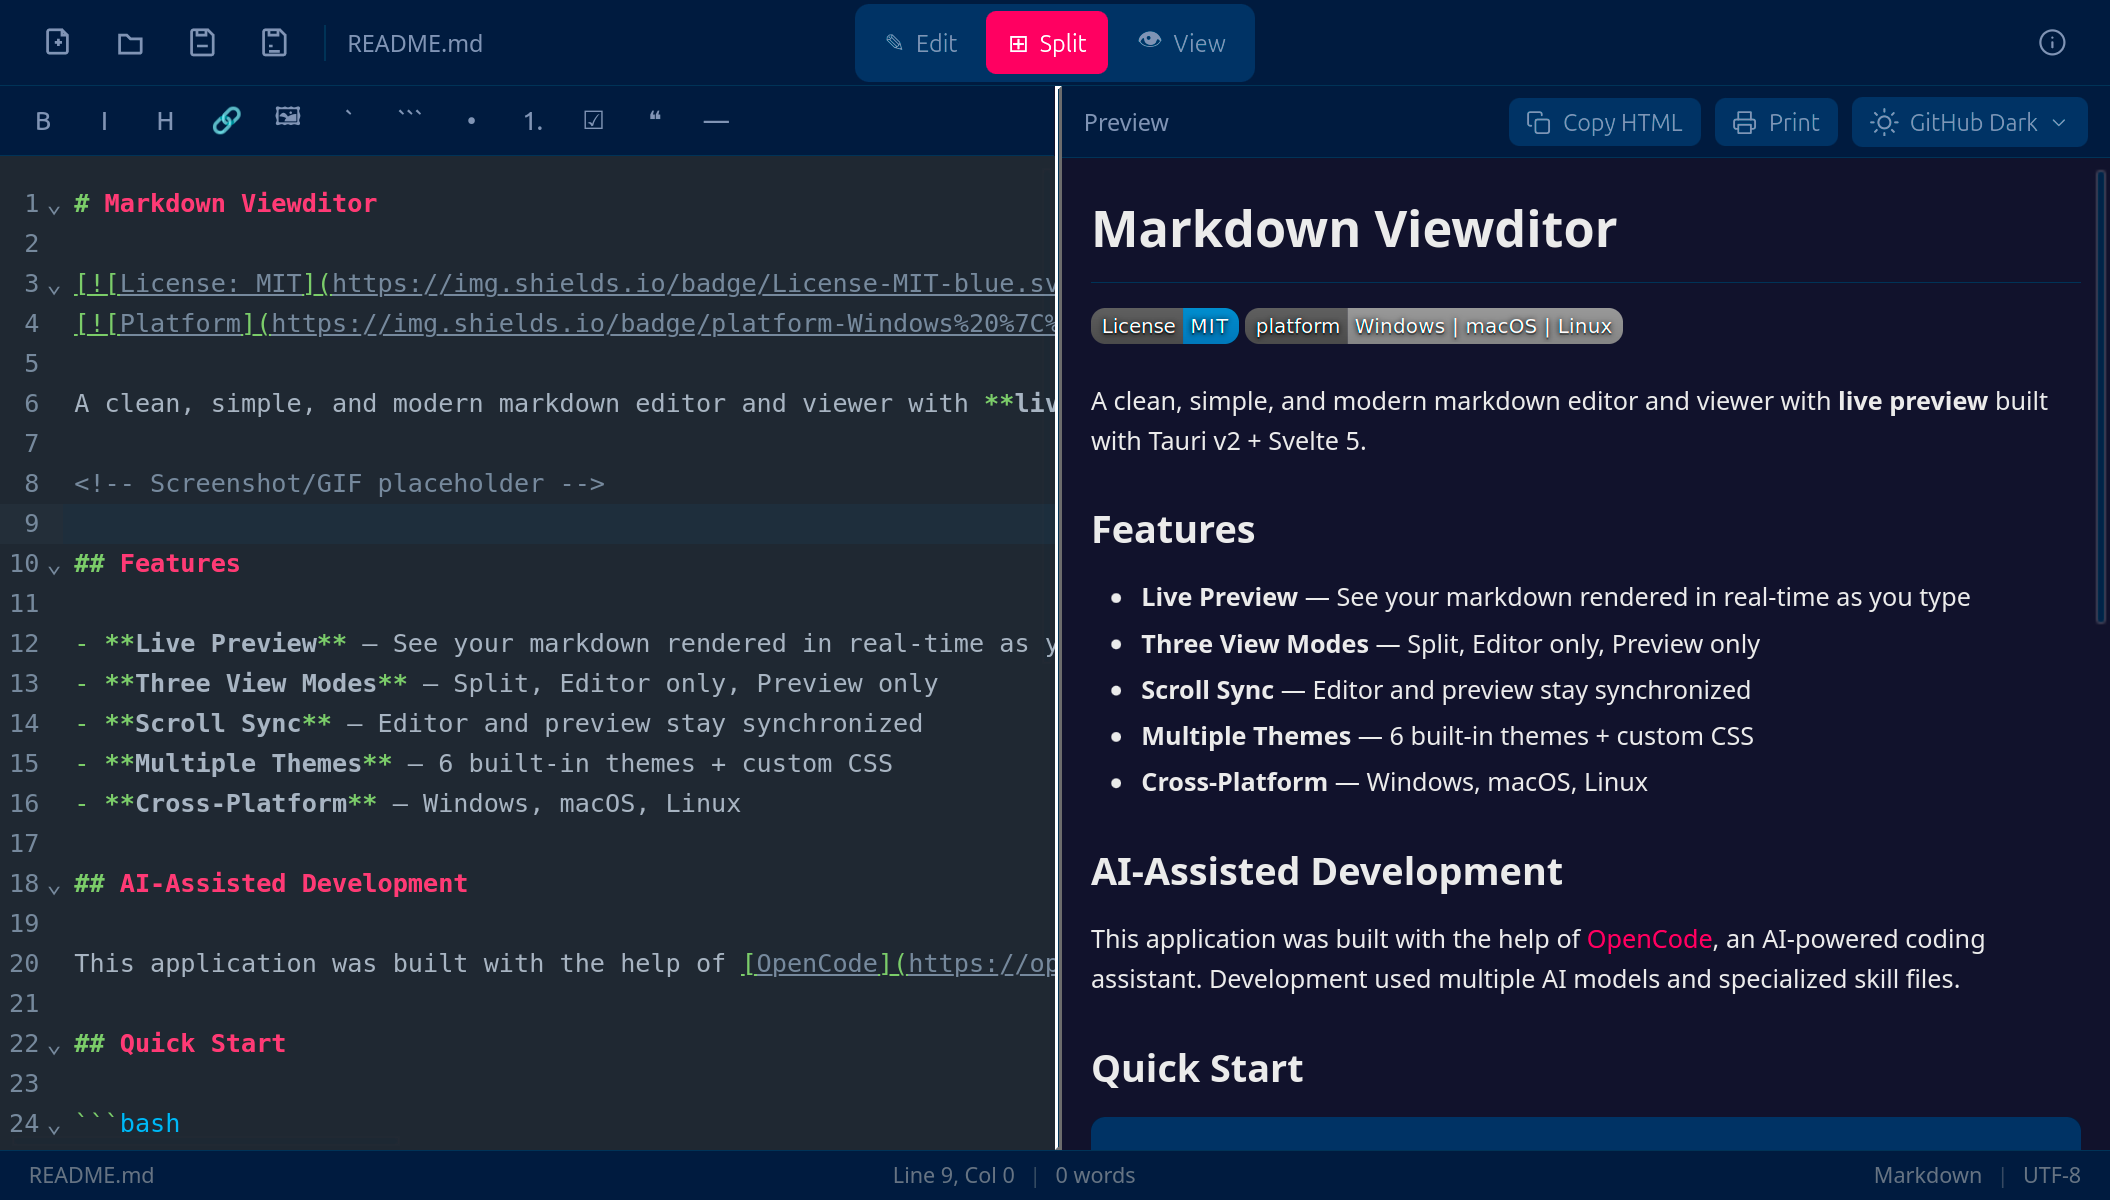
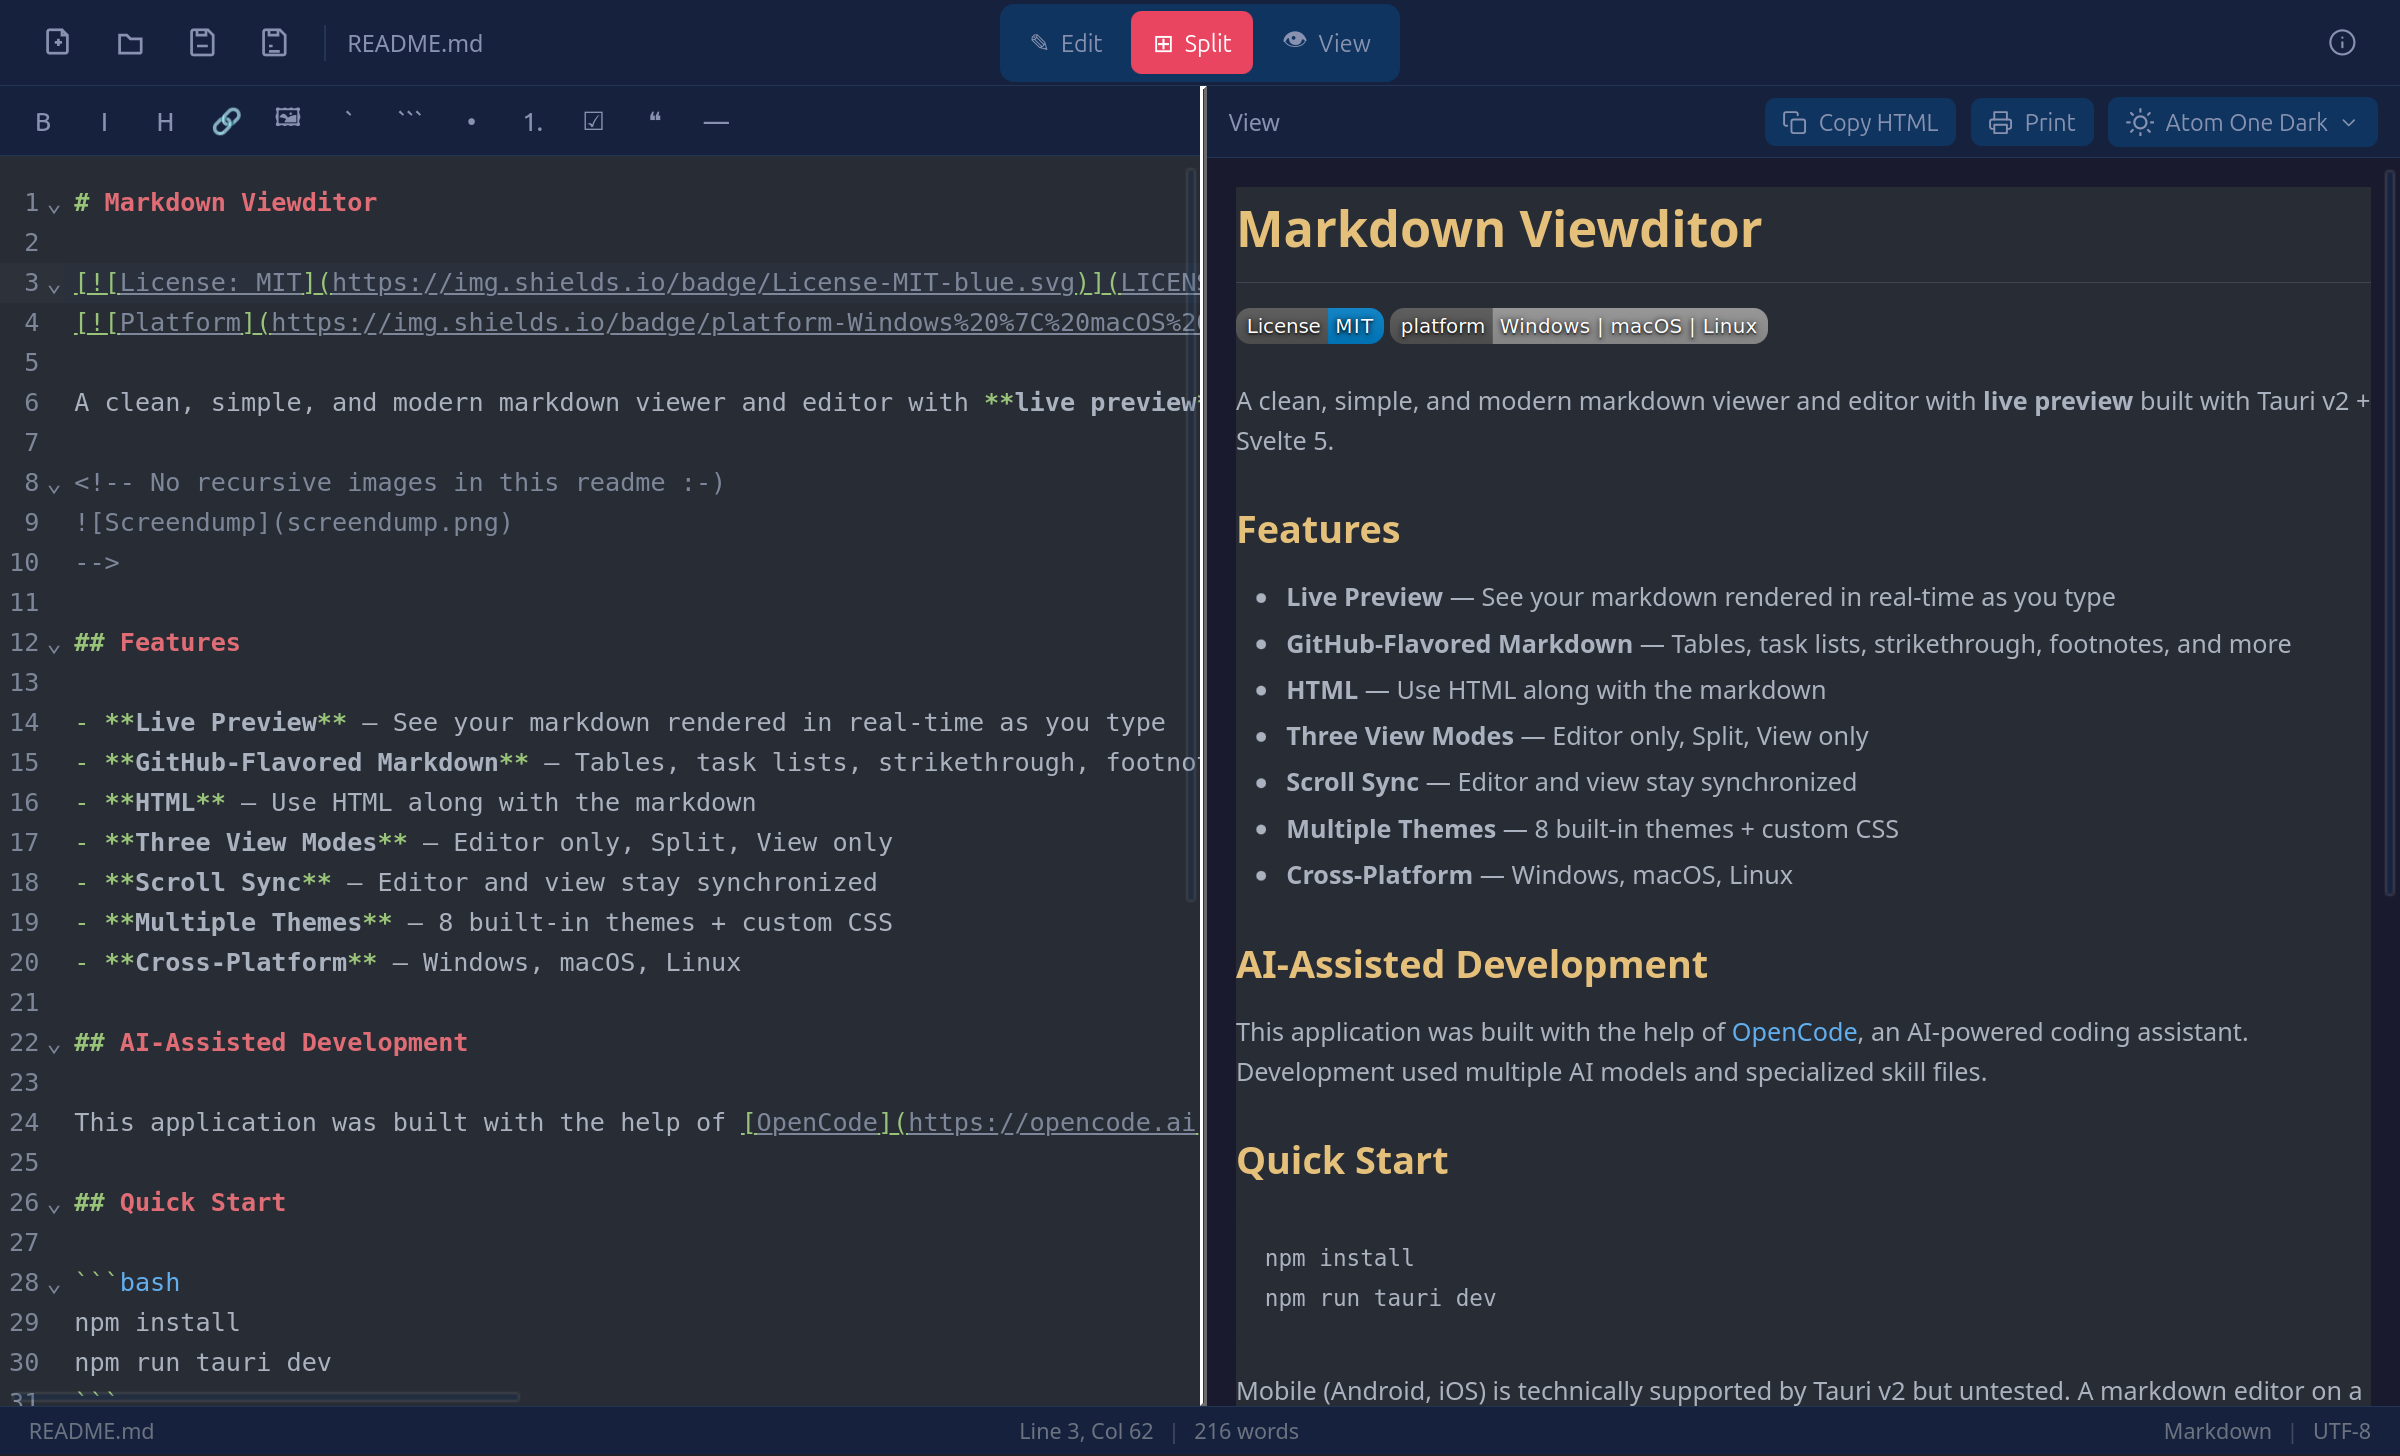
Updated screendump and added a markdown example

diff --git a/Example.md b/Example.md
@@ -1,0 +1,74 @@
+# Examples of Markdown Formatting
+
+## Text Formatting
+
+A *clean*, **simple**, and ***modern*** _markdown_ viewer ~~and~~ editor with live preview.
+
+## Html Is Allowed[^1]
+[^1]: Might not be compatible with all uses of Markdown. By 
+the way: this is a footnote that will appear at the bottom
+of the formatted text.
+
+A <i>clean</i>, <b>simple</b>, and <i><b>modern</b></i> <em>markdown</em>
+<span style="color: red">viewer</span> <s>and</s>
+<span style="color: green">editor</span> with 
+<span style="font-size: 144%; font-family: fantasy, serif;">live preview</span>.
+
+<img src="screendump.png" width="200px" alt="An example Image">
+
+## Code Syntax Highlighting
+
+```json
+{
+  "firstName": "John",
+  "lastName": "Smith",
+  "age": 25
+}
+```
+
+## Tables with aligned columns[^2]
+[^2]: https://en.wikipedia.org/wiki/Car_colour_popularity
+
+| Left Aligned | Centered | Right Aligned |
+| :--- | :----: | ---: |
+| White | Popular | 24.8 |
+| Black | Popular | 22.0 |
+| Grey | Popular | 21.3 |
+| Silver | Kind of not | 9.1 |
+| Blue | Kind of not | 8.9 |
+| Red | Kind of not | 7.3 |
+| Green | Not | 2.0 |
+| Others | Not | 1.8 |
+
+## Links
+
+Links open in whatever app is default on your operating system
+for that kind of links:
+
+- [Google Search](https://google.com) probably opens a browser
+- [My local README markdown file](README.md) probably opens in *Markdown Viewditor*
+
+## Lists
+
+### Pasta
+- 200 g durum flour
+- 200 g wheat flour
+- 4 eggs
+
+### Recipe
+1. Build a volcano out of the flour and drop the eggs into the crater
+2. Gradually fold the eggs into the flour, continuing until the dough is done
+3. Knead the dough until it becomes smooth and slightly elastic
+4. Cut it into whatever form you like best
+
+### TODO After Retirement
+- [x] Write a Markdown Viewer and Editor
+- [ ] Become Rich ~~and Famous~~
+- [ ] Listen to Wagner's *The Ring of the Nibelung* in its entirety
+
+
+
+
+## Images
+![image example](screendump.png)
+

diff --git a/README.md b/README.md
@@ -5,14 +5,13 @@
 
 A clean, simple, and modern markdown viewer and editor with **live preview** built with Tauri v2 + Svelte 5.
 
-<!-- Screenshot/GIF placeholder -->
-
 ![Screendump](screendump.png)
 
 ## Features
 
 - **Live Preview** — See your markdown rendered in real-time as you type
 - **GitHub-Flavored Markdown** — Tables, task lists, strikethrough, footnotes, and more
+- **HTML** — Use HTML along with the markdown
 - **Three View Modes** — Editor only, Split, View only
 - **Scroll Sync** — Editor and view stay synchronized
 - **Multiple Themes** — 8 built-in themes + custom CSS
